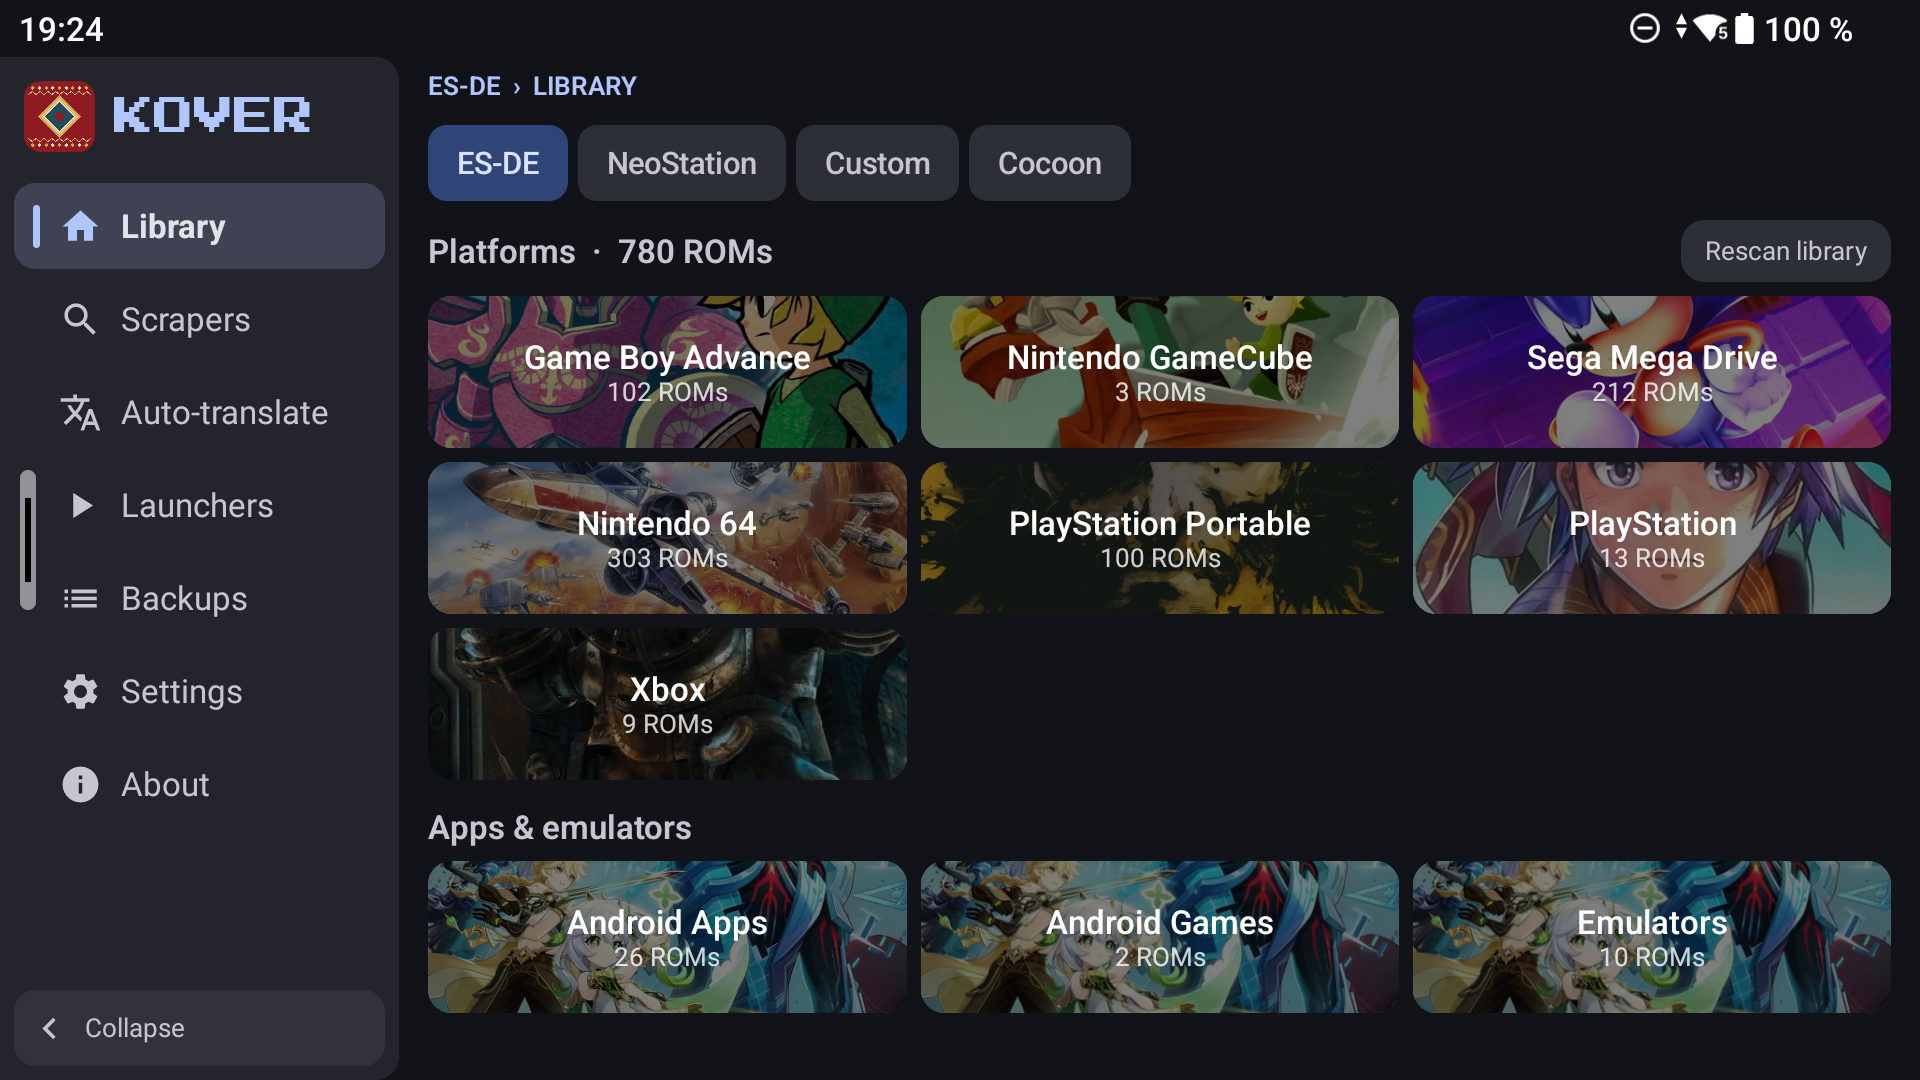
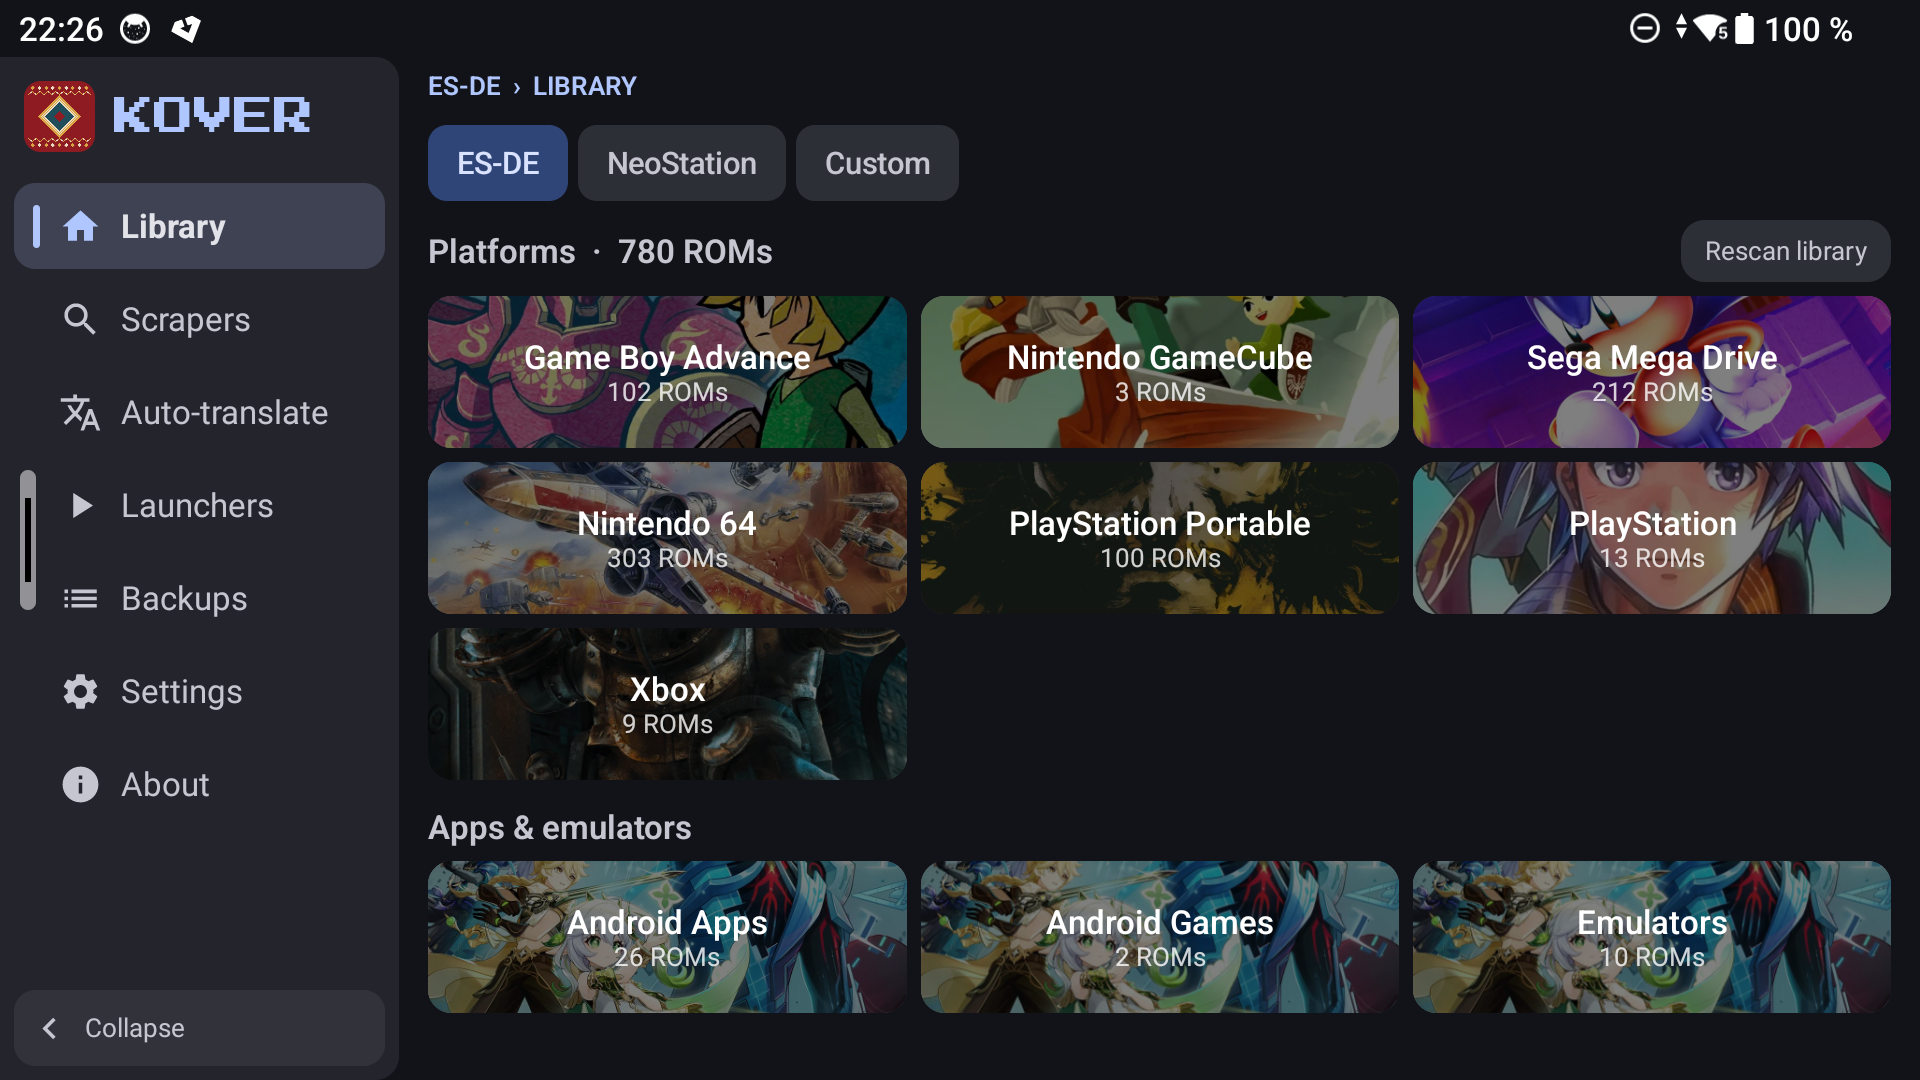
Add Daijisho import guide and move Cocoon out of the library

Changed region(s): [[0.5, 0.0917, 0.5938, 0.1833], [0.0625, 0.0, 0.125, 0.0306], [0.0, 0.0, 0.0312, 0.0306]]

diff --git a/app/src/main/java/com/ark/kover/ui/settings/LauncherDetailScreen.kt b/app/src/main/java/com/ark/kover/ui/settings/LauncherDetailScreen.kt
@@ -3,10 +3,12 @@ package com.ark.kover.ui.settings
 import android.net.Uri
 import androidx.activity.compose.rememberLauncherForActivityResult
 import androidx.activity.result.contract.ActivityResultContracts
+import androidx.compose.foundation.layout.padding
 import androidx.compose.material3.MaterialTheme
 import androidx.compose.material3.Text
 import androidx.compose.runtime.Composable
 import androidx.compose.runtime.getValue
+import androidx.compose.ui.Modifier
 import androidx.compose.ui.platform.LocalContext
 import androidx.compose.ui.res.stringResource
 import androidx.hilt.navigation.compose.hiltViewModel
@@ -20,6 +22,7 @@ import com.ark.kover.ui.components.ActionRow
 import com.ark.kover.ui.components.AppScaffold
 import com.ark.kover.ui.components.KoverTab
 import com.ark.kover.ui.components.SectionTitle
+import com.ark.kover.ui.theme.Dimens
 import dagger.hilt.android.lifecycle.HiltViewModel
 import kotlinx.coroutines.launch
 import javax.inject.Inject
@@ -83,6 +86,7 @@ fun LauncherDetailScreen(
         "neostation" -> "NeoStation"
         "custom" -> "Custom"
         "cocoon" -> "Cocoon"
+        "daijisho" -> "Daijisho"
         "emudeck" -> "EmuDeck"
         else -> stringResource(R.string.nav_launcher)
     }
@@ -94,9 +98,28 @@ fun LauncherDetailScreen(
         onBack = onBack,
     ) {
         Text(title, style = MaterialTheme.typography.titleMedium)
-        if (launcherId == "cocoon") {
+        if (launcherId == "cocoon" || launcherId == "daijisho") {
+            val intro = if (launcherId == "cocoon") {
+                R.string.cocoon_info_body
+            } else {
+                R.string.daijisho_info_body
+            }
+            val howto = if (launcherId == "cocoon") {
+                R.string.cocoon_howto
+            } else {
+                R.string.daijisho_howto
+            }
             Text(
-                text = stringResource(R.string.cocoon_info_body),
+                text = stringResource(intro),
+                style = MaterialTheme.typography.bodySmall,
+                color = MaterialTheme.colorScheme.onSurfaceVariant,
+            )
+            SectionTitle(
+                text = stringResource(R.string.launcher_howto),
+                modifier = Modifier.padding(top = Dimens.Gap6),
+            )
+            Text(
+                text = stringResource(howto),
                 style = MaterialTheme.typography.bodySmall,
                 color = MaterialTheme.colorScheme.onSurfaceVariant,
             )

diff --git a/app/src/main/java/com/ark/kover/ui/library/LibraryScreen.kt b/app/src/main/java/com/ark/kover/ui/library/LibraryScreen.kt
@@ -23,9 +23,6 @@ import androidx.compose.material3.Text
 import androidx.compose.runtime.Composable
 import androidx.compose.runtime.LaunchedEffect
 import androidx.compose.runtime.getValue
-import androidx.compose.runtime.mutableStateOf
-import androidx.compose.runtime.remember
-import androidx.compose.runtime.setValue
 import androidx.compose.ui.Alignment
 import androidx.compose.ui.Modifier
 import androidx.compose.ui.platform.LocalContext
@@ -107,7 +104,6 @@ fun LibraryScreen(
     val firstFocus = rememberInitialFocus()
     val launcher = settings.launcherType
     val extraSystemIds = EsDeSlots.extrasFor(launcher)
-    var showCocoonInfo by remember { mutableStateOf(false) }
 
     LaunchedEffect(romDirUri, launcher) {
         if (romDirUri.isNotBlank()) {
@@ -158,11 +154,6 @@ fun LibraryScreen(
                 selected = launcher == "custom",
                 onClick = { viewModel.setLauncher("custom") },
             )
-            LauncherChip(
-                label = "Cocoon",
-                selected = false,
-                onClick = { showCocoonInfo = true },
-            )
             if (repo.isScanning) {
                 CircularProgressIndicator(modifier = Modifier.size(14.dp), strokeWidth = 2.dp)
                 Text(
@@ -171,28 +162,6 @@ fun LibraryScreen(
                     color = MaterialTheme.colorScheme.onSurfaceVariant,
                 )
             }
-        }
-
-        if (showCocoonInfo) {
-            androidx.compose.material3.AlertDialog(
-                onDismissRequest = { showCocoonInfo = false },
-                title = { Text(stringResource(R.string.cocoon_info_title)) },
-                text = { Text(stringResource(R.string.cocoon_info_body)) },
-                confirmButton = {
-                    FocusableCard(
-                        onClick = { showCocoonInfo = false },
-                        modifier = Modifier.height(34.dp),
-                        contentPadding = PaddingValues(horizontal = 14.dp, vertical = 0.dp),
-                    ) { focused ->
-                        Text(
-                            text = stringResource(R.string.common_close),
-                            style = MaterialTheme.typography.labelSmall,
-                            color = if (focused) MaterialTheme.colorScheme.primary
-                            else MaterialTheme.colorScheme.onSurface,
-                        )
-                    }
-                },
-            )
         }
 
         when {

diff --git a/app/src/main/java/com/ark/kover/ui/settings/LauncherSettingsScreen.kt b/app/src/main/java/com/ark/kover/ui/settings/LauncherSettingsScreen.kt
@@ -46,6 +46,11 @@ fun LauncherListScreen(
             style = androidx.compose.material3.MaterialTheme.typography.bodySmall,
             color = androidx.compose.material3.MaterialTheme.colorScheme.onSurfaceVariant,
         )
+        Text(
+            text = stringResource(R.string.launcher_import_hint),
+            style = androidx.compose.material3.MaterialTheme.typography.bodySmall,
+            color = androidx.compose.material3.MaterialTheme.colorScheme.onSurfaceVariant,
+        )
         ActionRow(
             title = "ES-DE",
             subtitle = stringResource(R.string.launcher_dir),
@@ -78,9 +83,13 @@ fun LauncherListScreen(
         )
         ActionRow(
             title = "Cocoon",
-            subtitle = stringResource(R.string.cocoon_subtitle),
-            trailing = stringResource(R.string.cocoon_via_esde),
+            subtitle = stringResource(R.string.launcher_import_subtitle),
             onClick = { onLauncherClick("cocoon") },
+        )
+        ActionRow(
+            title = stringResource(R.string.daijisho_title),
+            subtitle = stringResource(R.string.launcher_import_subtitle),
+            onClick = { onLauncherClick("daijisho") },
         )
     }
 }

diff --git a/app/src/main/java/com/ark/kover/ui/settings/AboutScreen.kt b/app/src/main/java/com/ark/kover/ui/settings/AboutScreen.kt
@@ -69,7 +69,9 @@ fun AboutScreen(
         SectionTitle(text = stringResource(R.string.about_launchers), modifier = Modifier.padding(top = Dimens.Gap6))
         LauncherInfo("ES-DE", R.string.about_launcher_esde)
         LauncherInfo("NeoStation", R.string.about_launcher_neostation)
-        LauncherInfo("Cocoon", R.string.about_launcher_cocoon)
+        LauncherInfo("Custom", R.string.about_launcher_custom)
+        LauncherInfo("Cocoon", R.string.about_launcher_via_esde_import)
+        LauncherInfo("Daijisho", R.string.about_launcher_via_esde_import)
 
         SectionTitle(text = stringResource(R.string.about_services))
         ServiceRow("ES-DE", R.string.about_esde_desc, "https://es-de.org", context)

diff --git a/README.ru.md b/README.ru.md
@@ -40,6 +40,7 @@ Kover не запускает игры и не собирает библиоте
 | **NeoStation** | `data.sqlite` (метаданные) + `media/{система}/{слот}` |
 | **Custom** | своя аккуратная папка: `gamelists/{система}/gamelist.xml` + `media/{система}/{слот}` |
 | **Cocoon** | напрямую не пишет — изменения подхватывает импорт ES-DE самого Cocoon |
+| **Daijisho** | напрямую не пишет — импорт `gamelist.xml` и папок медиа через ES-DE/Skraper-импорт Daijisho |
 
 Переключение между лаунчерами — одно нажатие; у каждого запоминается своя папка данных.
 
@@ -156,7 +157,7 @@ Kover — свободное ПО под **GNU General Public License v3.0 (GPL-
 [THIRD_PARTY_NOTICES.md](THIRD_PARTY_NOTICES.md).
 
 Названия игр, обложки и товарные знаки принадлежат их владельцам. Kover не связан с ES-DE,
-NeoStation, Cocoon, NeoAssets, SteamGridDB, Steam, RAWG и ScreenScraper.
+NeoStation, Cocoon, Daijisho, NeoAssets, SteamGridDB, Steam, RAWG и ScreenScraper.
 
 ## Ссылки
 

diff --git a/README.md b/README.md
@@ -40,6 +40,7 @@ what you already had and take hours. Kover works the other way around:
 | **NeoStation** | `data.sqlite` (metadata) + `media/{system}/{slot}` |
 | **Custom** | its own tidy folder: `gamelists/{system}/gamelist.xml` + `media/{system}/{slot}` |
 | **Cocoon** | not written directly — pick up changes through Cocoon's own ES-DE import |
+| **Daijisho** | not written directly — import `gamelist.xml` and media folders through Daijisho's ES-DE/Skraper import |
 
 Switching between launchers takes one tap; each remembers its own data folder.
 
@@ -154,7 +155,7 @@ See [LICENSE](LICENSE). Third-party components and their licenses are listed in
 [THIRD_PARTY_NOTICES.md](THIRD_PARTY_NOTICES.md).
 
 Game titles, cover art and trademarks belong to their respective owners. Kover is not affiliated
-with ES-DE, NeoStation, Cocoon, NeoAssets, SteamGridDB, Steam, RAWG or ScreenScraper.
+with ES-DE, NeoStation, Cocoon, Daijisho, NeoAssets, SteamGridDB, Steam, RAWG or ScreenScraper.
 
 ## Links
 
